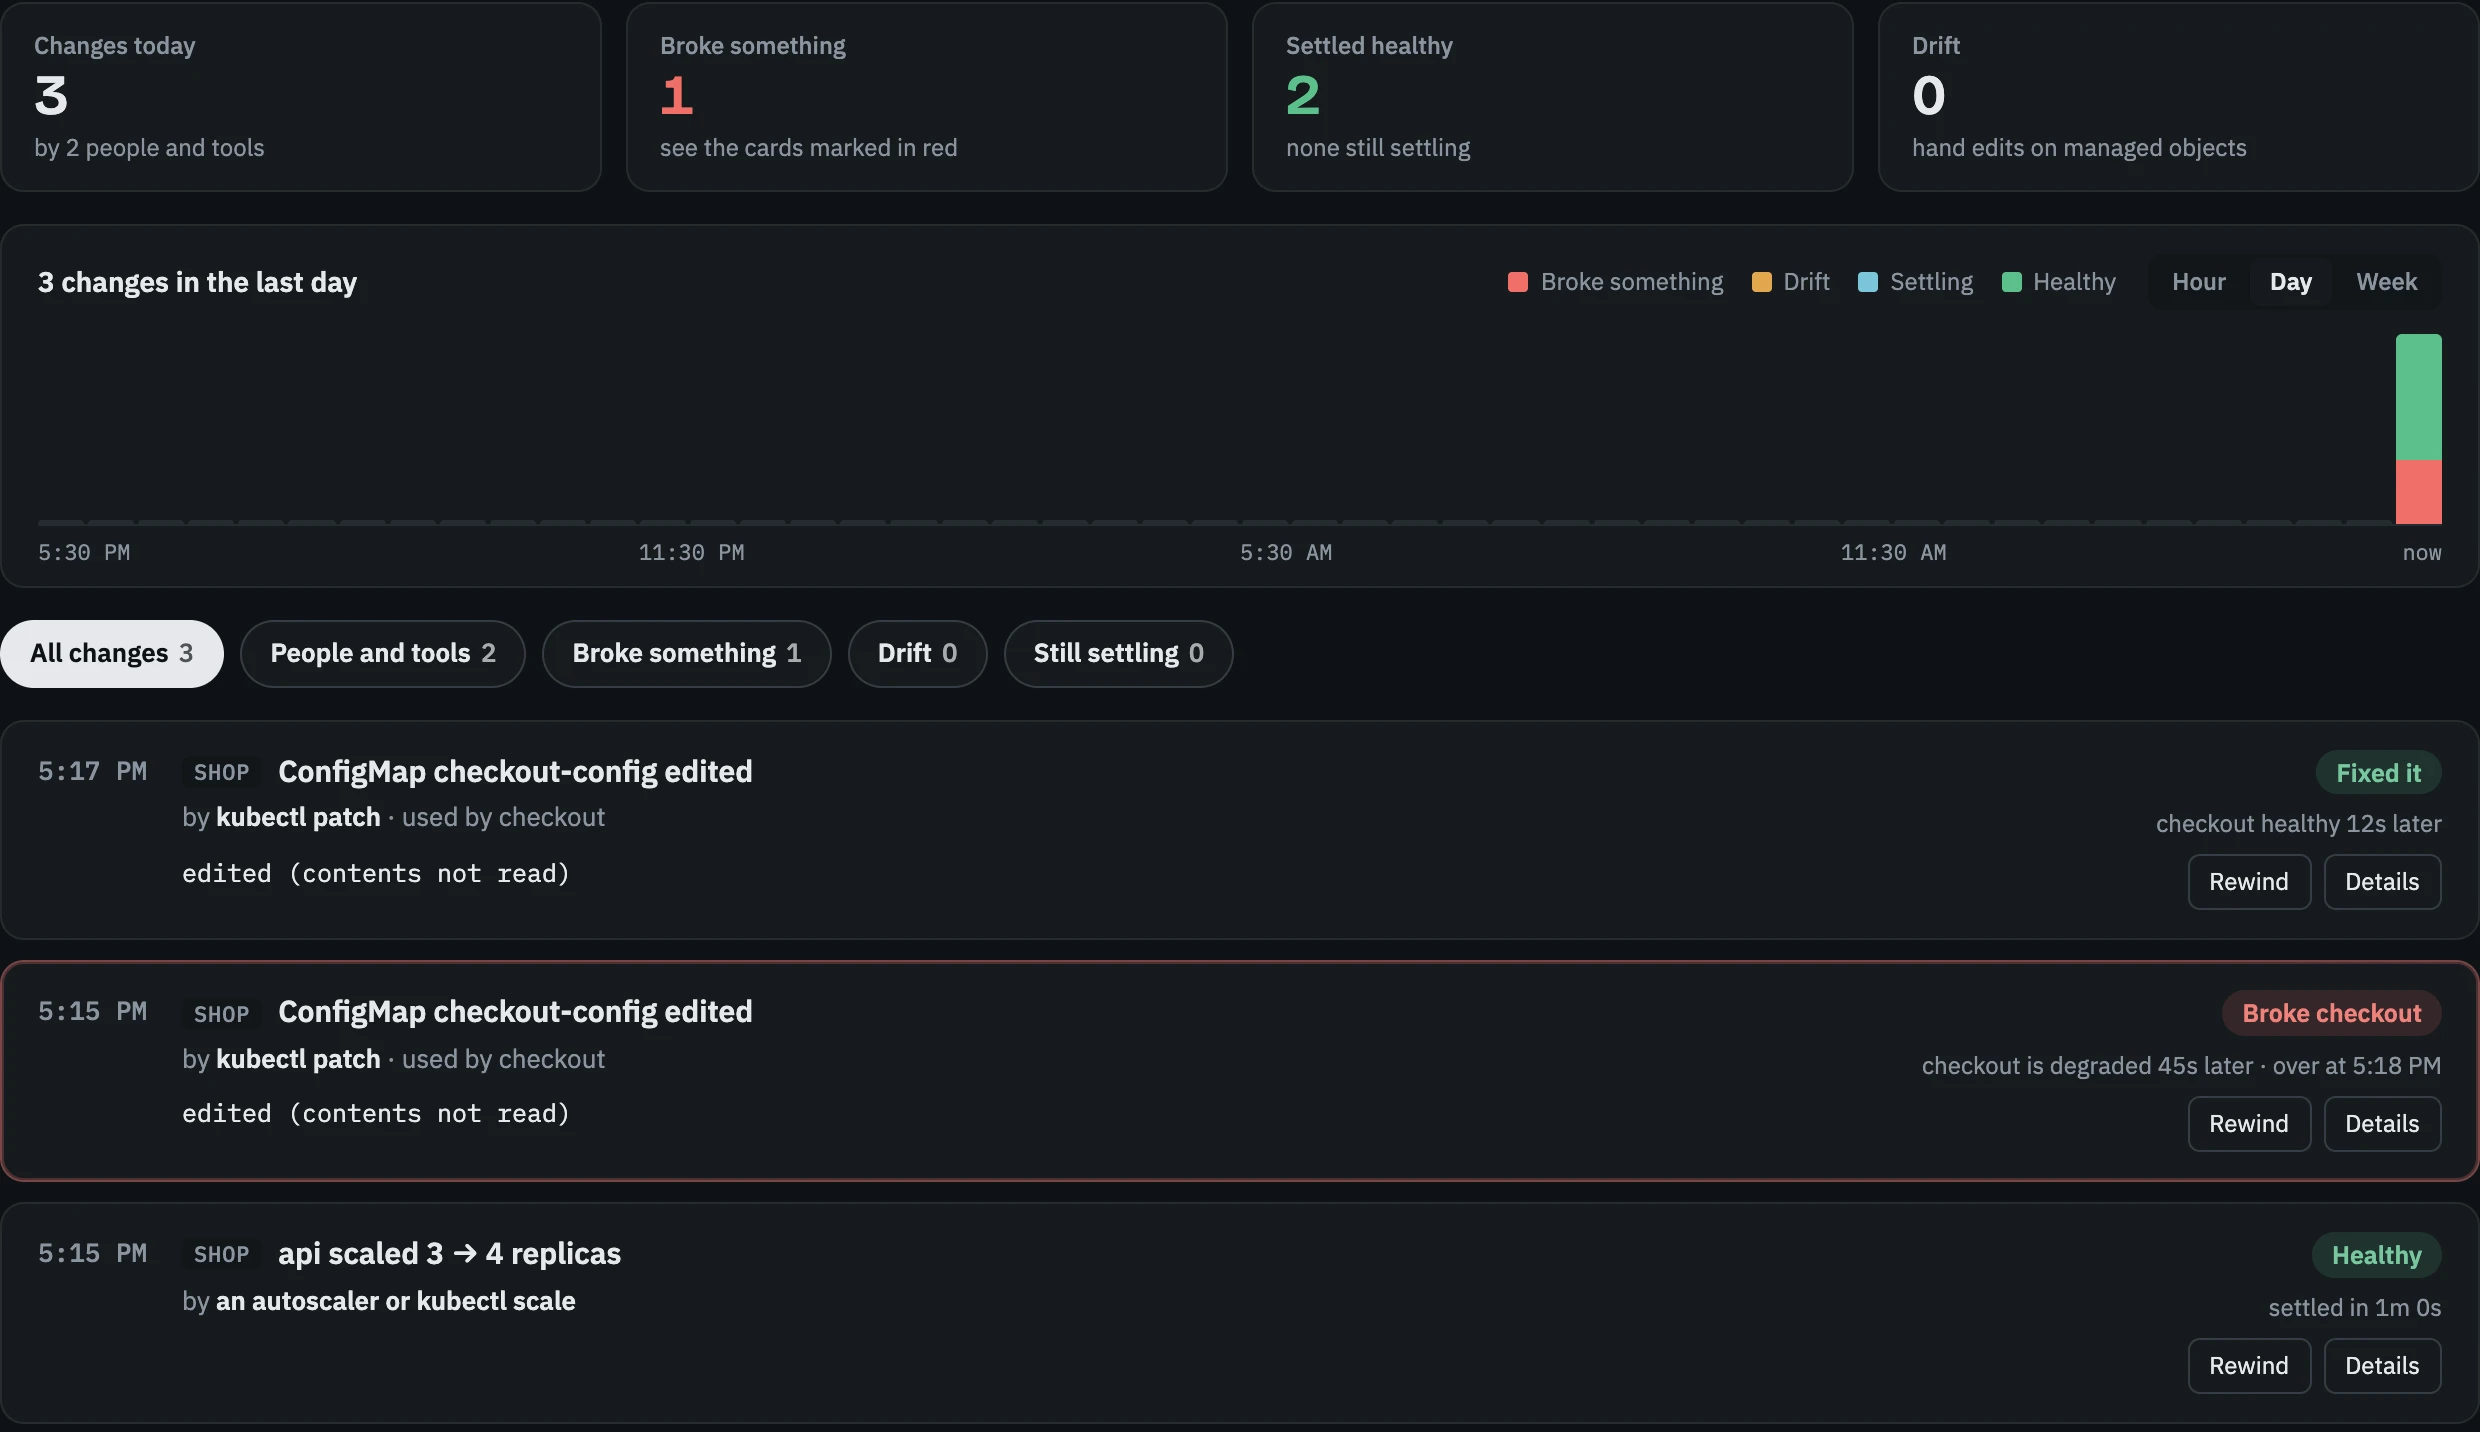
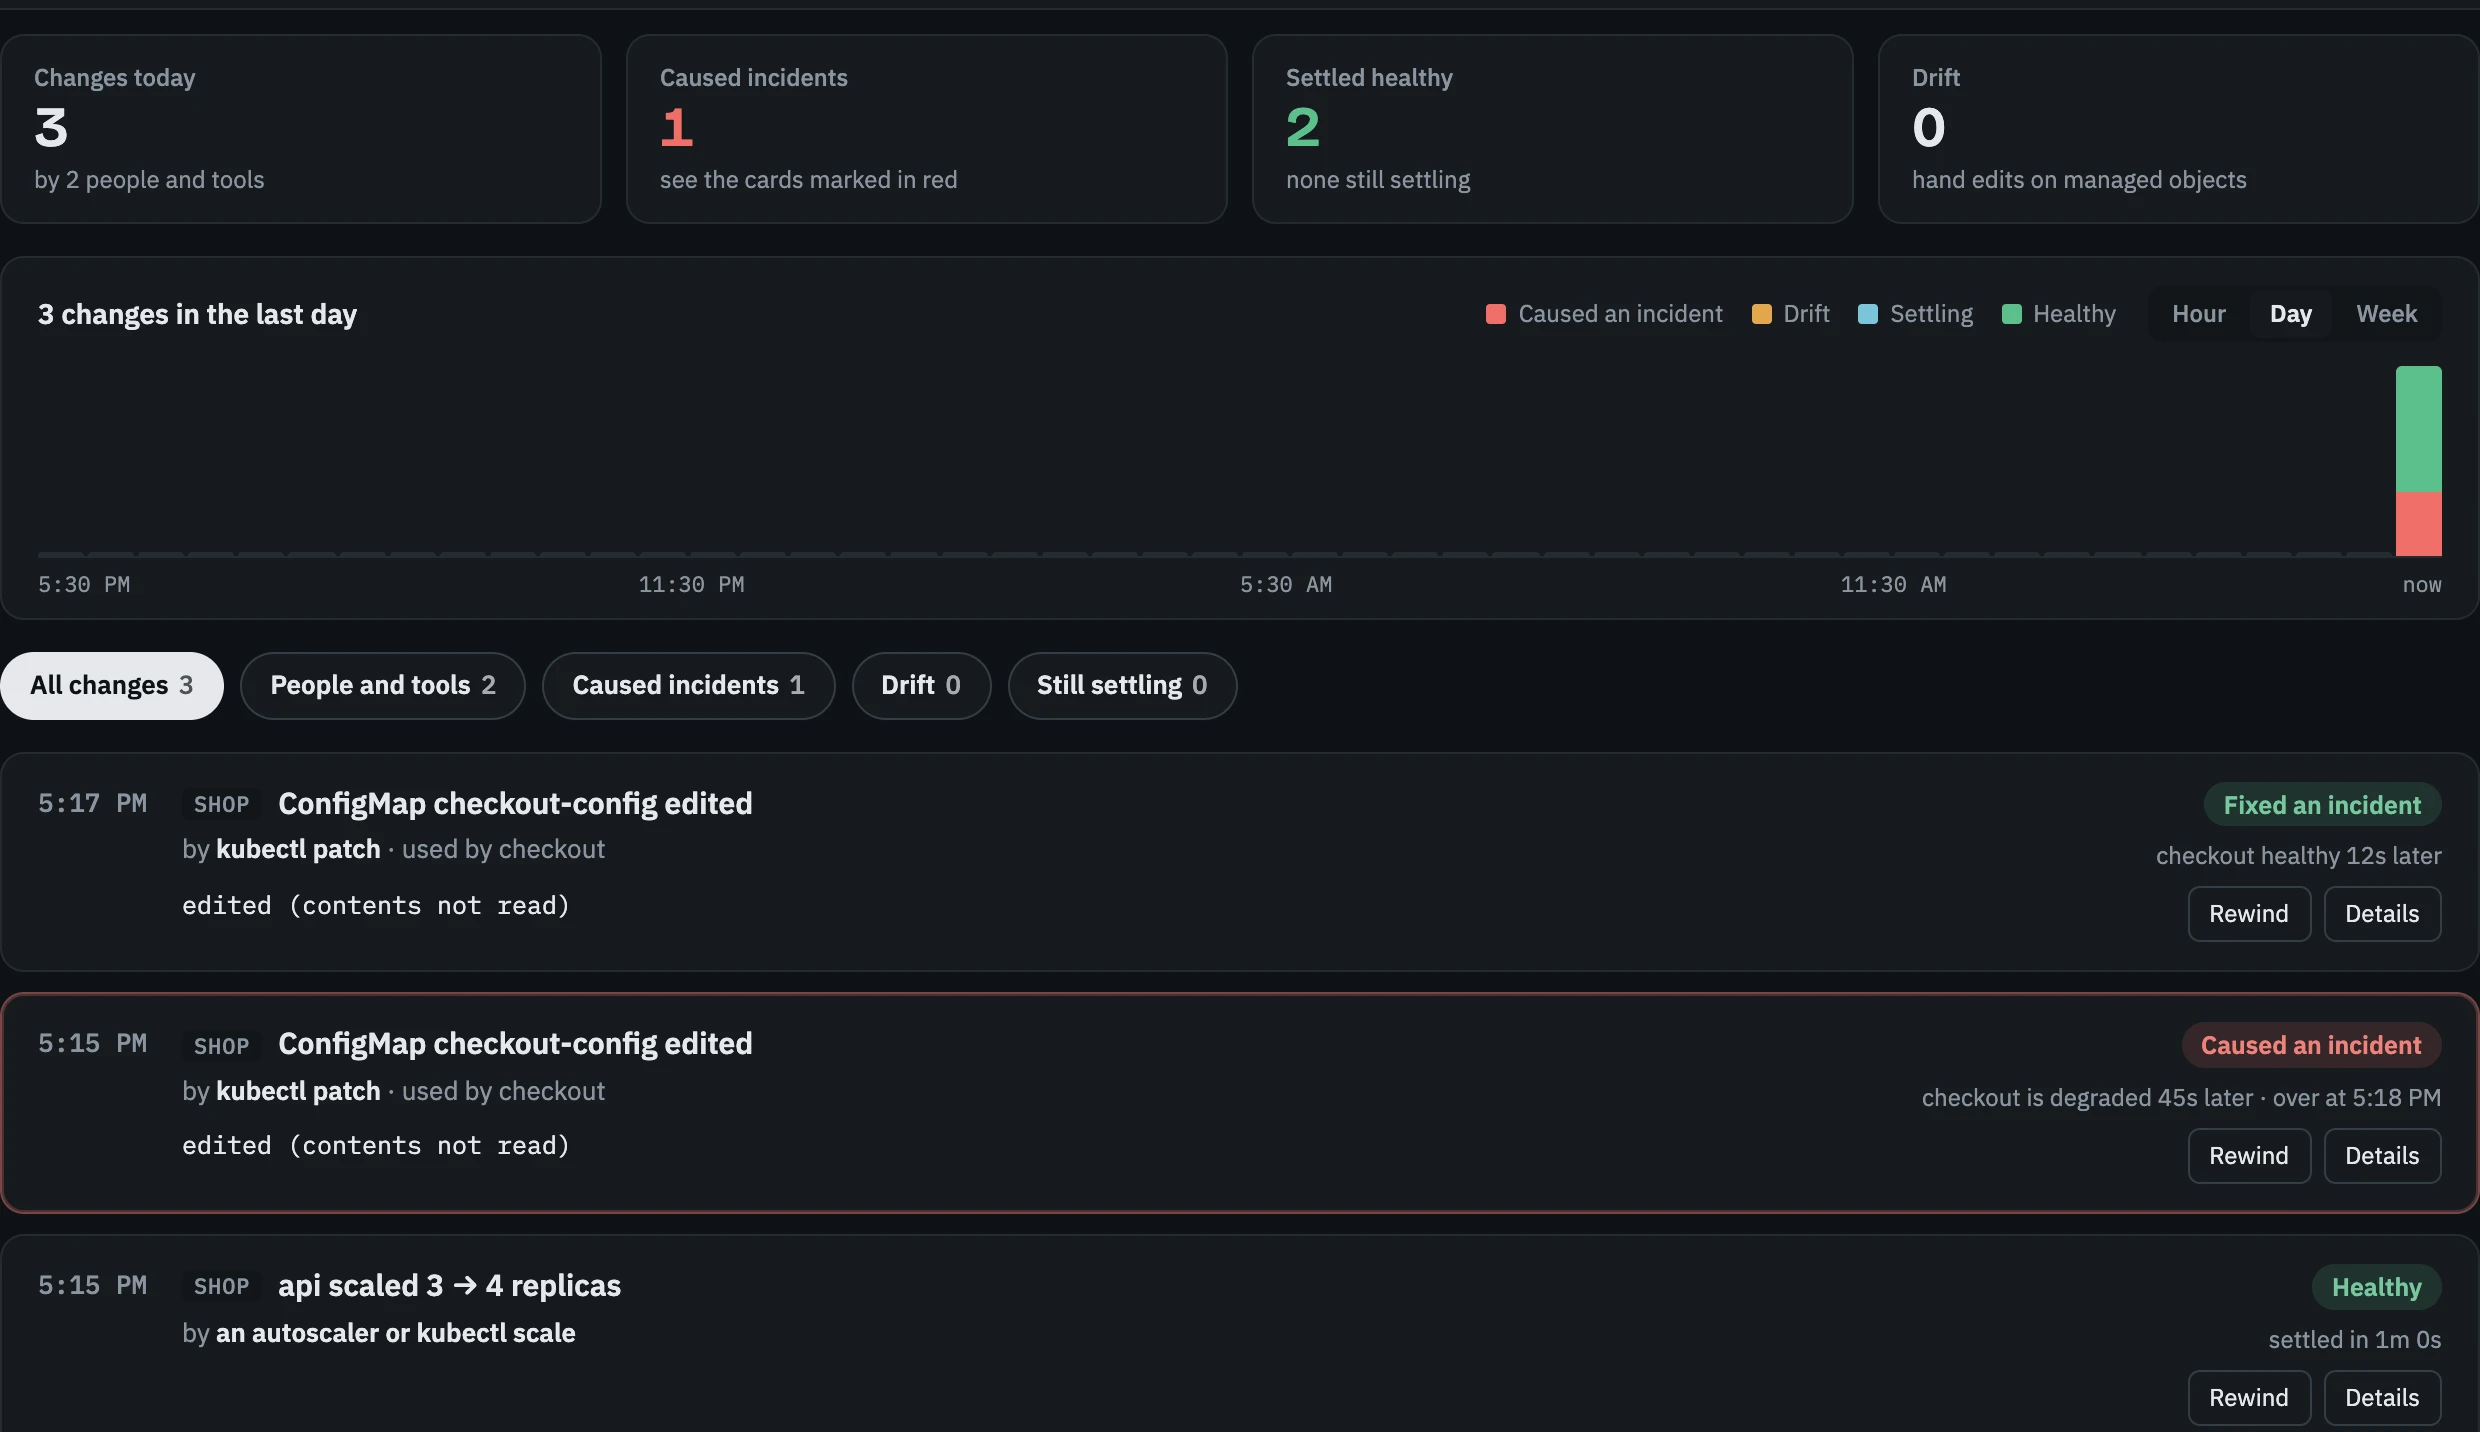
fix(feed): say "Caused an incident", not "Broke checkout"
"Broke checkout" only makes sense to someone who knows checkout is an
app's name; to anyone else it reads as broken shopping. Verdicts now say
what happened in plain words, "Caused an incident" and "Fixed an
incident", and the note under them names the app ("checkout is degraded
45s later"). The filter, stat card and histogram follow, as do the site,
its Changes screenshots, the README and ADR-0012.

diff --git a/web/site.html b/web/site.html
@@ -88,7 +88,7 @@
                 <time>T+00:55</time>
                 <span class="rail" aria-hidden="true"><i class="up"></i><i class="down red"></i><b class="red"></b></span>
                 <span class="what"><strong>ConfigMap checkout-config edited</strong><small>by kubectl patch</small></span>
-                <span class="verdict broke">Broke checkout</span>
+                <span class="verdict broke">Caused an incident</span>
               </a>
             </li>
             <li class="incident">
@@ -107,7 +107,7 @@
                 <time>T+02:55</time>
                 <span class="rail" aria-hidden="true"><i class="up"></i><i class="down"></i><b></b></span>
                 <span class="what"><strong>ConfigMap checkout-config edited</strong><small>by kubectl patch</small></span>
-                <span class="verdict fixed">Fixed it</span>
+                <span class="verdict fixed">Fixed an incident</span>
               </a>
             </li>
             <li>
@@ -176,13 +176,13 @@
             <p>One line per Helm upgrade, Argo CD sync or kubectl edit, with a verdict once things settle.</p>
             <ul class="verdicts" aria-label="Verdicts">
               <li><span class="verdict healthy">Healthy</span> settled, and how long it took</li>
-              <li><span class="verdict broke">Broke checkout</span> and when it was over</li>
-              <li><span class="verdict fixed">Fixed it</span> brought an app back</li>
+              <li><span class="verdict broke">Caused an incident</span> which app, and when it was over</li>
+              <li><span class="verdict fixed">Fixed an incident</span> brought an app back</li>
               <li><span class="verdict drift">Drift</span> hand edits to managed objects</li>
             </ul>
           </div>
           <div class="shot">
-            <img class="on-light" src="/src/site/img/changes-light.webp" width="1240" height="716" loading="lazy" alt="The Changes view: stat cards, a histogram of changes over time, and change cards marked Healthy, Broke checkout and Fixed it." />
+            <img class="on-light" src="/src/site/img/changes-light.webp" width="1240" height="716" loading="lazy" alt="The Changes view: stat cards, a histogram of changes over time, and change cards marked Healthy, Caused an incident and Fixed an incident." />
             <img class="on-dark" src="/src/site/img/changes-dark.webp" width="1240" height="716" loading="lazy" alt="" />
           </div>
         </article>

diff --git a/web/e2e/player.spec.ts b/web/e2e/player.spec.ts
@@ -96,11 +96,11 @@ test("the change feed says what each change did", async ({ page }) => {
   const cards = page.locator(".feed-card");
   await expect(cards).toHaveCount(3);
   await expect(cards.filter({ hasText: "api scaled 3 → 4 replicas" }).locator(".verdict")).toHaveText("Healthy");
-  await expect(cards.filter({ hasText: "Broke checkout" })).toContainText("ConfigMap checkout-config edited");
-  await expect(cards.filter({ hasText: "Fixed it" })).toContainText("checkout healthy");
+  await expect(cards.filter({ hasText: "Caused an incident" })).toContainText("ConfigMap checkout-config edited");
+  await expect(cards.filter({ hasText: "Fixed an incident" })).toContainText("checkout healthy");
   await shot(page, "changes");
 
-  await page.getByRole("button", { name: /^Broke something/ }).click();
+  await page.getByRole("button", { name: /^Caused incidents/ }).click();
   await expect(cards).toHaveCount(1);
   await page.getByRole("button", { name: /^All changes/ }).click();
   await page.getByPlaceholder("Search apps, people, images…").fill("api");
@@ -108,7 +108,7 @@ test("the change feed says what each change did", async ({ page }) => {
   await page.getByPlaceholder("Search apps, people, images…").fill("");
 
   // The change that broke checkout, opened, then rewound to on the map.
-  await cards.filter({ hasText: "Broke checkout" }).getByRole("button", { name: "Details" }).click();
+  await cards.filter({ hasText: "Caused an incident" }).getByRole("button", { name: "Details" }).click();
   await expect(page.locator("dialog.feed-drawer")).toContainText("What changed");
   await shot(page, "change-detail");
   await page.getByRole("button", { name: "Rewind to just before" }).click();

diff --git a/web/src/lib/feed.ts b/web/src/lib/feed.ts
@@ -10,7 +10,7 @@ export type Filter = "all" | "people" | "broke" | "drift" | "settling";
 export const FILTERS: { id: Filter; label: string }[] = [
   { id: "all", label: "All changes" },
   { id: "people", label: "People and tools" },
-  { id: "broke", label: "Broke something" },
+  { id: "broke", label: "Caused incidents" },
   { id: "drift", label: "Drift" },
   { id: "settling", label: "Still settling" },
 ];
@@ -27,7 +27,7 @@ export const shortName = (id: string) => id.slice(id.lastIndexOf("/") + 1);
 
 const VERDICT: Record<string, string> = {
   healthy: "Healthy",
-  fixed: "Fixed it",
+  fixed: "Fixed an incident",
   settling: "Settling",
   stuck: "Didn't settle",
   none: "No effect",
@@ -35,7 +35,7 @@ const VERDICT: Record<string, string> = {
 };
 
 export function verdictLabel(s: ChangeSet): string {
-  if (s.verdict === "broke") return `Broke ${s.incident ? shortName(s.incident) : "an app"}`;
+  if (s.verdict === "broke") return "Caused an incident"; // the note names the app
   return VERDICT[s.verdict] ?? s.verdict;
 }
 

diff --git a/web/src/components/ChangesView.tsx b/web/src/components/ChangesView.tsx
@@ -116,7 +116,7 @@ export function ChangesView({ sets, now, query, live, canRewindTo, onRewind, rec
           <div className="feed-stat-note">by {today.authors} {today.authors === 1 ? "person or tool" : "people and tools"}</div>
         </div>
         <div className="feed-stat">
-          <div className="feed-stat-label">Broke something</div>
+          <div className="feed-stat-label">Caused incidents</div>
           <div className={`feed-stat-value${today.broke ? " crit" : ""}`}>{today.broke}</div>
           <div className="feed-stat-note">{today.broke ? "see the cards marked in red" : "nothing broke today"}</div>
         </div>

diff --git a/web/src/components/ActivityHistogram.tsx b/web/src/components/ActivityHistogram.tsx
@@ -14,7 +14,7 @@ interface Props {
 }
 
 const ORDER: Outcome[] = ["broke", "drift", "settling", "healthy", "other"];
-const LABEL: Record<Outcome, string> = { broke: "Broke something", drift: "Drift", settling: "Settling", healthy: "Healthy", other: "Other" };
+const LABEL: Record<Outcome, string> = { broke: "Caused an incident", drift: "Drift", settling: "Settling", healthy: "Healthy", other: "Other" };
 const TIPS = 5; // changes listed in a bar's tooltip
 
 function when(t: number, range: Range): string {

diff --git a/README.md b/README.md
@@ -167,9 +167,9 @@ So far it covers ConfigMap changes; images, memory limits, probes, scaling and q
 The **Changes** view lists every change to the cluster, newest first, and what each one did once things settled ([ADR-0012](docs/adr/0012-change-feed.md)):
 
 ```text
-5:17 PM  ConfigMap checkout-config edited     by kubectl patch       Fixed it     checkout healthy 12s later
-5:15 PM  ConfigMap checkout-config edited     by kubectl patch       Broke checkout   degraded 45s later · over at 5:18 PM
-5:15 PM  api scaled 3 → 4 replicas            by kubectl scale       Healthy      settled in 1m 0s
+5:17 PM  ConfigMap checkout-config edited     by kubectl patch       Fixed an incident    checkout healthy 12s later
+5:15 PM  ConfigMap checkout-config edited     by kubectl patch       Caused an incident   checkout degraded 45s later · over at 5:18 PM
+5:15 PM  api scaled 3 → 4 replicas            by kubectl scale       Healthy              settled in 1m 0s
 ```
 
 A Helm upgrade or Argo CD sync is one line with its version ("Helm upgrade shop 1.4.0 → 2.0.0"). Hand edits to objects Helm or a GitOps tool manages are flagged as **drift**. When you come back, it tells you what happened **since you last looked**. Filter by what broke, drift or what's still settling, search by app, person or image, and open a change to rewind the map to just before it.

diff --git a/docs/adr/0012-change-feed.md b/docs/adr/0012-change-feed.md
@@ -40,8 +40,8 @@ Each set that touches apps (directly, or through a ConfigMap, Secret or PVC they
 |---|---|
 | **Settling** | Its apps haven't finished rolling out yet (up to 10 minutes) |
 | **Healthy** | All its apps were ready and rolled out afterwards, with the time it took |
-| **Broke X** | The cause engine (ADR-0006) names one of its entries as the cause of an incident on X |
-| **Fixed it** | It was made while one of its apps had an incident, which ended within 10 minutes |
+| **Caused an incident** (on X) | The cause engine (ADR-0006) names one of its entries as the cause of an incident on X |
+| **Fixed an incident** | It was made while one of its apps had an incident, which ended within 10 minutes |
 | **No effect** | It touches no app (a node cordoned with room to spare, a new Service) |
 
 ### 4. Drift
